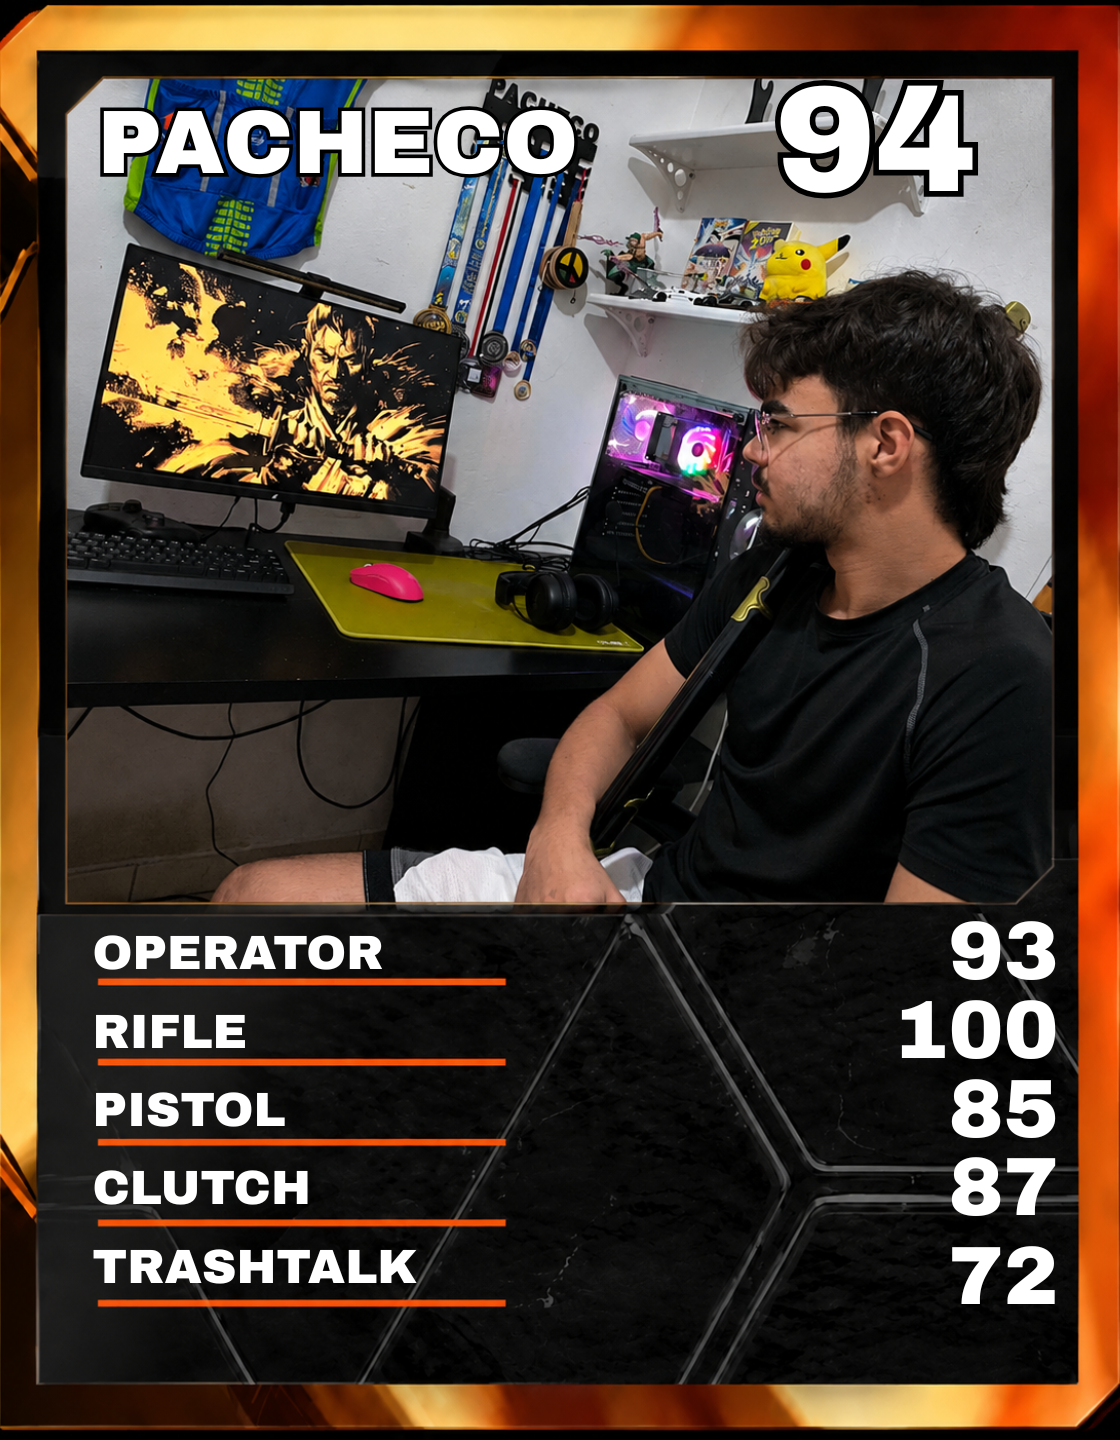
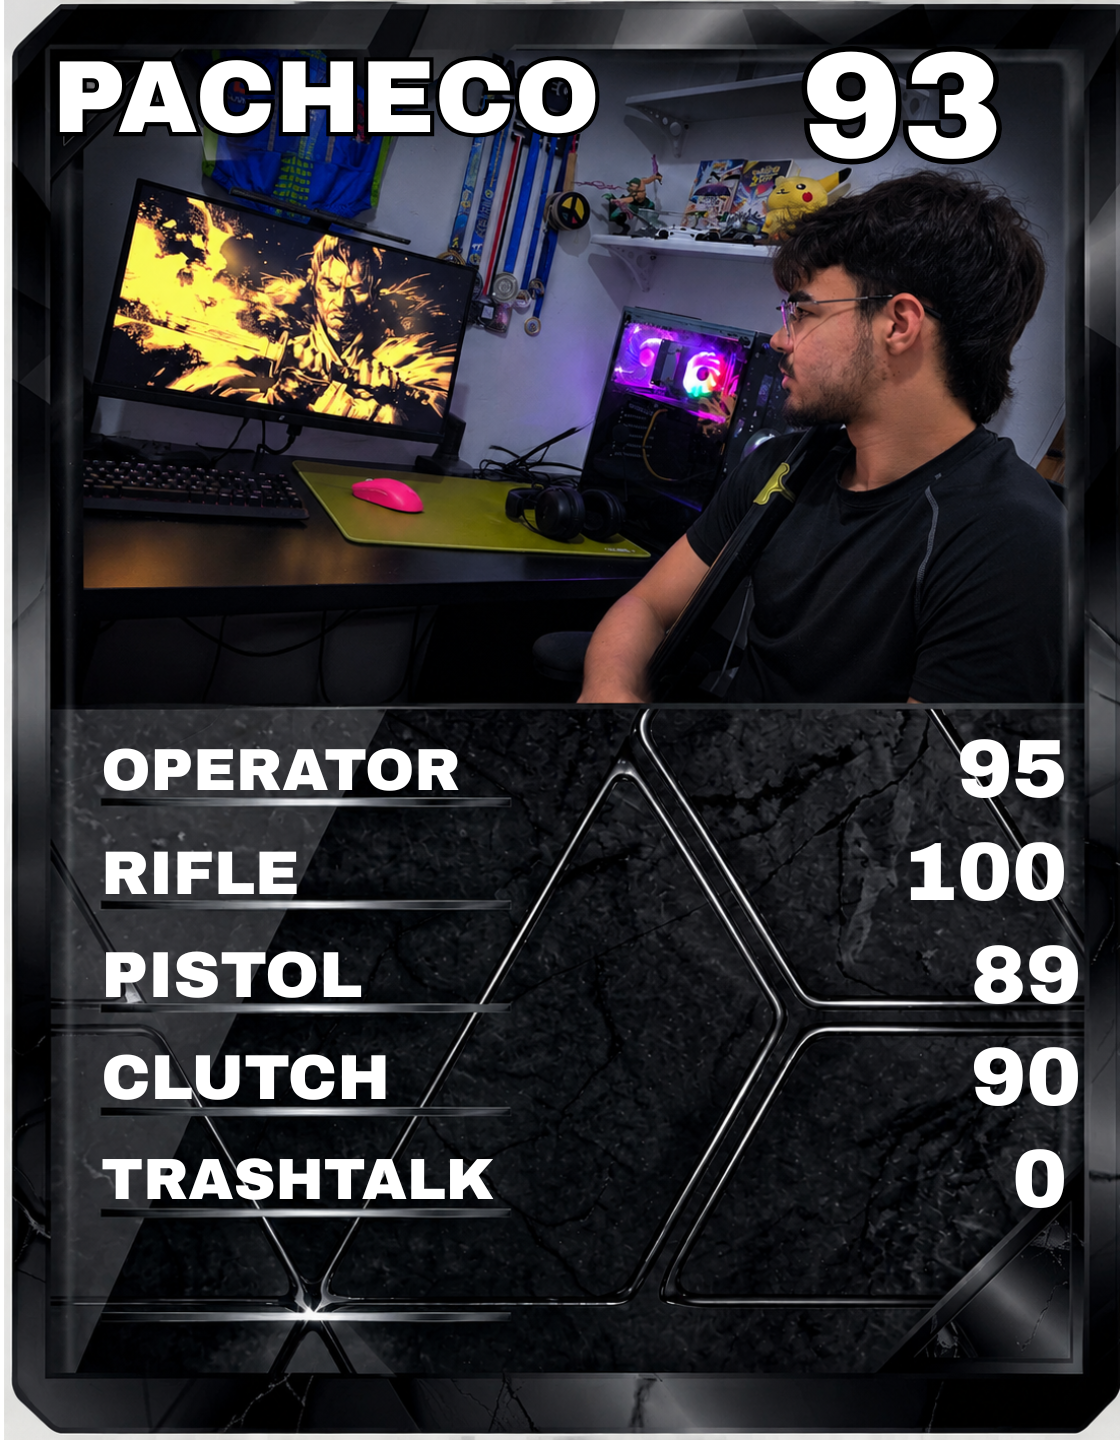
feat: add MGK player and update Gabriel photo

diff --git a/data.js b/data.js
@@ -21,7 +21,7 @@ const defaultPlayers = [{
   links: { mouse: 'https://pt.aliexpress.com/item/1005011812220400.html', keyboard: 'https://pt.aliexpress.com/item/1005008299208938.html', mousepad: 'https://pt.aliexpress.com/item/1005011561185122.html', monitor: 'https://www.terabyteshop.com.br/produto/33583' }
 }, {
   id: 'z4gb', name: 'Gabriel Felipi', tag: 'Z4GB#TOP1', team: 'Free Agent', role: 'Duelista', country: '🇧🇷 Brasil',
-  photo: 'assets/gabzao.jpg', dpi: 1600, sensitivity: 0.14, mouse: 'Ajazz AJ179 Pro', keyboard: 'Redragon Kumara', mousepad: 'Mouse Pad Gamer Extended CM02 900x400', monitor: 'Duex DX270QGP165', game: 'VALORANT',
+  photo: 'assets/gab.jpg', dpi: 1600, sensitivity: 0.14, mouse: 'Ajazz AJ179 Pro', keyboard: 'Redragon Kumara', mousepad: 'Mouse Pad Gamer Extended CM02 900x400', monitor: 'Duex DX270QGP165', game: 'VALORANT',
   crosshair: '0;P;t;1;o;1;d;1;0b;0;1b;0;1m;0;1f;0', crosshairImage: 'assets/ret.png?v=1',
   headset: { name: 'Fone Fortrek', link: '' },
   productImages: { mouse: 'assets/products/gabriel-ajazz-aj179-pro.png', keyboard: 'assets/teclado.webp', headset: 'assets/fone.jpg', mousepad: 'assets/products/gabriel-mousepad-cm02.jpg', monitor: 'assets/products/gabriel-duex-dx270qgp165.jpg' },
@@ -53,6 +53,13 @@ const defaultPlayers = [{
   crosshair: 'Não informado', crosshairImage: 'assets/mira.png?v=4', game: 'Rainbow Six',
   social: { Instagram: 'https://www.instagram.com/thomas__evangelista' },
   links: { mouse: '', keyboard: '', mousepad: '', monitor: '' }
+}, {
+  id: 'mgk', name: 'Miguel Marlon', tag: 'ferreirinhachb#3717', team: 'Free Agent', role: 'Iniciador', country: '🇧🇷 Brasil',
+  photo: 'assets/mgk.jpg', dpi: 800, sensitivity: 0.4, mouse: 'ATK A9 Plus', keyboard: 'Machenike K500 Branco', mousepad: 'PK Control 1', monitor: 'Samsung Essential 3', game: 'VALORANT',
+  agents: 'Gekko, Deadlock',
+  crosshair: 'Não informado', crosshairImage: 'assets/mira.png?v=4',
+  productImages: { mouse: 'assets/products/atk-a9-plus.jpg', keyboard: 'assets/products/teclado.webp', mousepad: 'assets/products/mousepad.webp', monitor: 'assets/products/monitor.webp' },
+  links: { mouse: 'https://www.amazon.com/ATK-Dragonfly-A9-Lightweight-Adjustable/dp/B0FNC9H56K?th=1', keyboard: 'https://global.machenike.com/pt-br/products/k500', mousepad: 'https://www.amazon.com.br/Mouse-pad-pk-control-1/dp/B0DFW1CWPX', monitor: 'https://www.shop.samsung.com.br/monitor-samsung-essential-s3-32-polegadas/p' }
 }];
 
 defaultPlayers.find(player => player.id === 'z4gb').links.mousepad = 'https://www.mercadolivre.com.br/mouse-pad-gamer-extended-cm02-900x400';
